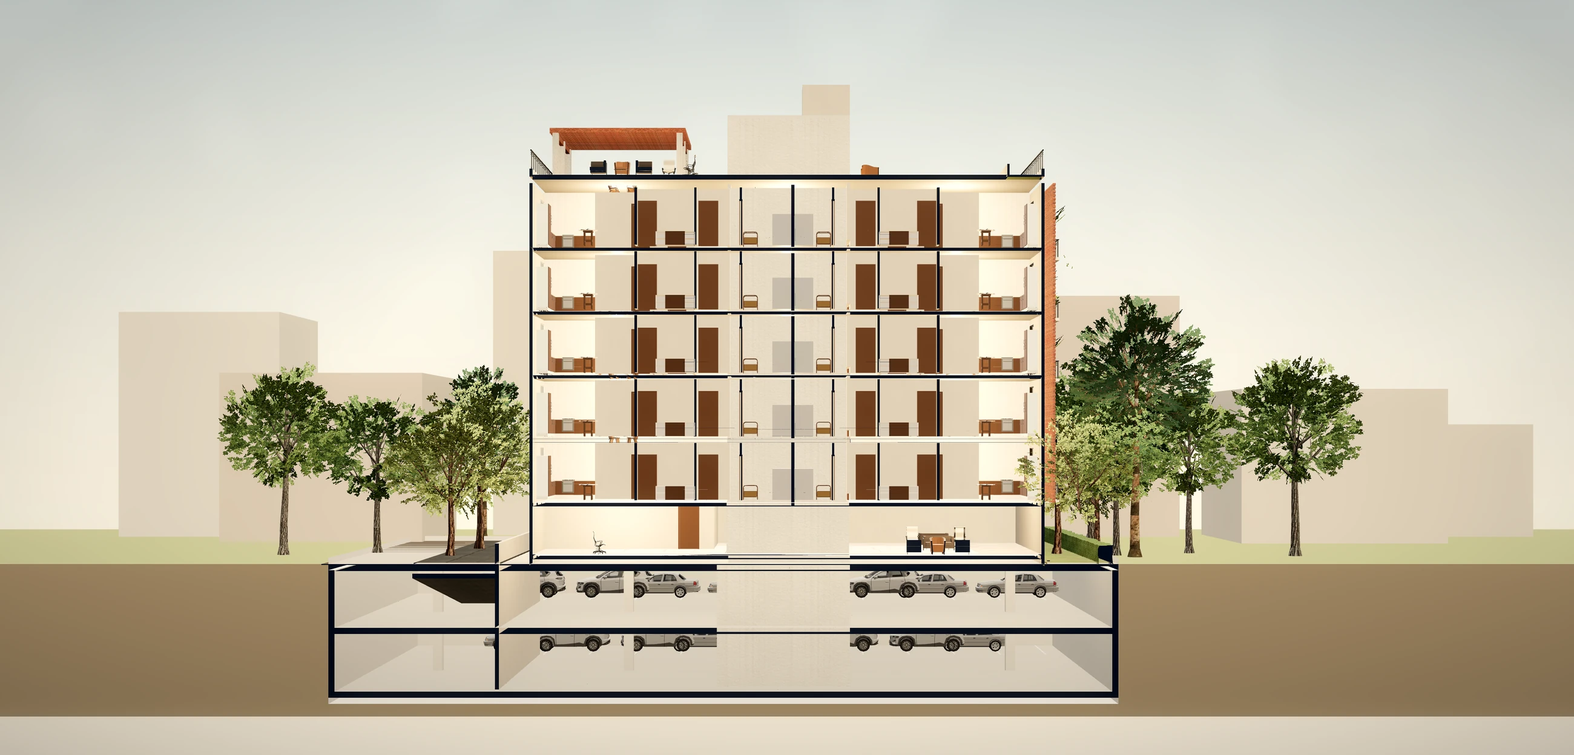
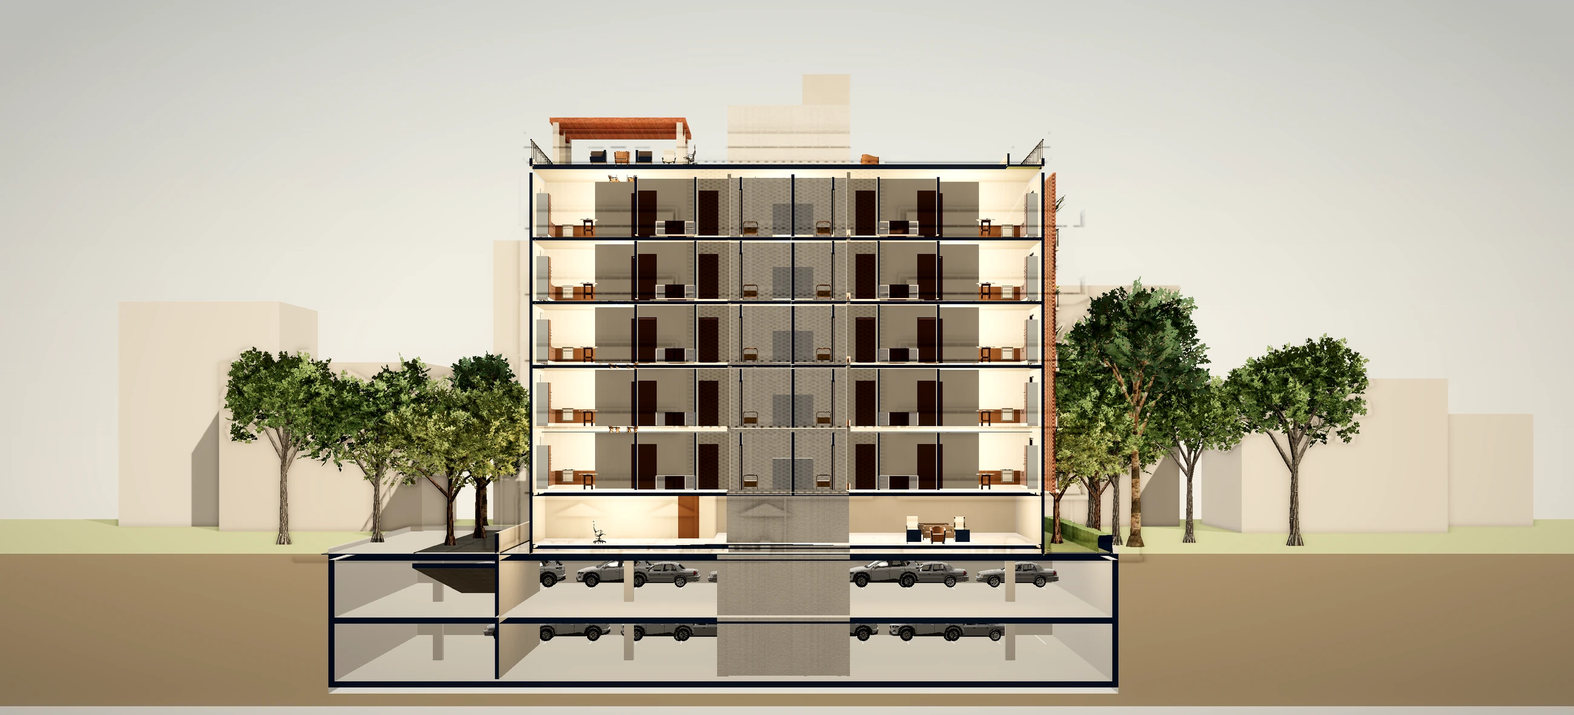
Brochure: corte del inicio renderizado con sombras reales, oclusion ambiental y cielo; cabida con arboles reales

diff --git a/index.html b/index.html
@@ -15,7 +15,7 @@
   <link rel="preconnect" href="https://fonts.gstatic.com" crossorigin />
   <link href="https://fonts.googleapis.com/css2?family=Montserrat:wght@300;400;500;600&family=Manrope:wght@400;500;600;700&display=swap" rel="stylesheet" />
   <link rel="stylesheet" href="https://unpkg.com/leaflet@1.9.4/dist/leaflet.css" integrity="sha256-p4NxAoJBhIIN+hmNHrzRCf9tD/miZyoHS5obTRR9BMY=" crossorigin="" />
-  <link rel="stylesheet" href="./assets/brochure/arboleda.css?v=v11" />
+  <link rel="stylesheet" href="./assets/brochure/arboleda.css?v=v12" />
   <script type="importmap">{ "imports": { "three": "https://unpkg.com/three@0.160.0/build/three.module.js", "three/addons/": "https://unpkg.com/three@0.160.0/examples/jsm/" } }</script>  <script type="importmap">{ "imports": { "three": "https://unpkg.com/three@0.160.0/build/three.module.js", "three/addons/": "https://unpkg.com/three@0.160.0/examples/jsm/" } }</script></head>
 <body class="is-loading">
     <div class="progress" aria-hidden="true"><i></i></div>
@@ -99,7 +99,7 @@
           <li><b>04</b><span>Sótanos</span><p>2 niveles bajo todo el lote: 46 parqueaderos.</p></li>
         </ol>
         <div class="cabida-vis">
-          <figure class="cabida-axo"><svg class="ax-svg" viewBox="-474 -507 806 672" role="img" aria-label="Axonometría de la cabida: lote esquinero con antejardines y el volumen de 6 pisos"><g class="ax-bs"><path class="ax-bw" d="M291.7 -90.7L5.6 74.5L5.6 3.2L291.7 -162.0Z"/><path class="ax-bn" d="M5.6 74.5L-384.2 -150.5L-384.2 -221.8L5.6 3.2Z"/><path class="ax-bl" d="M291.7 -126.3L5.6 38.9L-384.2 -186.2"/><path class="ax-bl" d="M291.7 -90.7L5.6 74.5L-384.2 -150.5"/><path class="ax-car" d="M-10.3 20.5L-28.3 10.1L-28.3 -2.5L-10.3 7.8Z"/><path class="ax-car" d="M-52.8 -4.1L-70.8 -14.4L-70.8 -27.1L-52.8 -16.7Z"/><path class="ax-car" d="M-95.3 -28.6L-113.3 -38.9L-113.3 -51.6L-95.3 -41.2Z"/><path class="ax-car" d="M-137.8 -53.1L-155.8 -63.5L-155.8 -76.1L-137.8 -65.8Z"/><path class="ax-car" d="M-180.3 -77.7L-198.3 -88.0L-198.3 -100.7L-180.3 -90.3Z"/><path class="ax-car" d="M-222.8 -102.2L-240.8 -112.6L-240.8 -125.2L-222.8 -114.9Z"/><path class="ax-car" d="M-265.3 -126.7L-283.3 -137.1L-283.3 -149.7L-265.3 -139.4Z"/><path class="ax-car" d="M-307.8 -151.3L-325.8 -161.6L-325.8 -174.3L-307.8 -163.9Z"/><path class="ax-car" d="M-350.3 -175.8L-368.3 -186.2L-368.3 -198.8L-350.3 -188.5Z"/><path class="ax-car" d="M-10.3 56.1L-28.3 45.8L-28.3 33.1L-10.3 43.5Z"/><path class="ax-car" d="M-52.8 31.6L-70.8 21.2L-70.8 8.6L-52.8 18.9Z"/><path class="ax-car" d="M-95.3 7.1L-113.3 -3.3L-113.3 -15.9L-95.3 -5.6Z"/><path class="ax-car" d="M-137.8 -17.5L-155.8 -27.8L-155.8 -40.5L-137.8 -30.1Z"/><path class="ax-car" d="M-180.3 -42.0L-198.3 -52.4L-198.3 -65.0L-180.3 -54.7Z"/><path class="ax-car" d="M-222.8 -66.6L-240.8 -76.9L-240.8 -89.6L-222.8 -79.2Z"/><path class="ax-car" d="M-265.3 -91.1L-283.3 -101.4L-283.3 -114.1L-265.3 -103.7Z"/><path class="ax-car" d="M-307.8 -115.6L-325.8 -126.0L-325.8 -138.6L-307.8 -128.3Z"/><path class="ax-car" d="M-350.3 -140.2L-368.3 -150.5L-368.3 -163.2L-350.3 -152.8Z"/></g><g class="ax-lot"><path class="ax-ground" d="M0.0 -0.0L290.2 -161.1L105.5 -269.5L101.5 -267.2L-98.0 -384.2L-384.2 -221.8Z"/></g><g class="ax-ant"><path class="ax-green" d="M5.6 3.2L-384.2 -221.8L-349.3 -241.9L0.0 -40.2L251.3 -185.3L291.7 -162.0Z"/></g><g class="ax-trees"><path class="ax-trunk" d="M12.3 -300.3V-343.2"/><ellipse class="ax-crown" cx="12.3" cy="-353.2" rx="27.6" ry="25.3"/><path class="ax-trunk" d="M-239.8 -282.2V-325.1"/><ellipse class="ax-crown" cx="-239.8" cy="-335.1" rx="27.6" ry="25.3"/><path class="ax-trunk" d="M77.0 -263.0V-305.9"/><ellipse class="ax-crown" cx="77.0" cy="-315.9" rx="27.6" ry="25.3"/><path class="ax-trunk" d="M-299.5 -247.7V-290.6"/><ellipse class="ax-crown" cx="-299.5" cy="-300.6" rx="27.6" ry="25.3"/><path class="ax-trunk" d="M-23.9 -245.0V-287.9"/><ellipse class="ax-crown" cx="-23.9" cy="-297.9" rx="27.6" ry="25.3"/><path class="ax-trunk" d="M146.7 -222.7V-265.6"/><ellipse class="ax-crown" cx="146.7" cy="-275.6" rx="27.6" ry="25.3"/><path class="ax-trunk" d="M206.5 -188.2V-231.1"/><ellipse class="ax-crown" cx="206.5" cy="-241.1" rx="27.6" ry="25.3"/><path class="ax-trunk" d="M110.5 -167.3V-210.2"/><ellipse class="ax-crown" cx="110.5" cy="-220.2" rx="27.6" ry="25.3"/></g><g class="ax-f"><path class="ax-w" d="M139.4 -120.8L0.0 -40.2L0.0 -75.9L139.4 -156.4Z"/><path class="ax-s" d="M0.0 -40.2L-247.4 -183.1L-247.4 -218.7L0.0 -75.9Z"/><path class="ax-glass" d="M-8.0 -48.9L-61.7 -79.9L-61.7 -106.4L-8.0 -75.3Z"/><path class="ax-glass" d="M-69.7 -84.5L-121.5 -114.4L-121.5 -140.9L-69.7 -111.0Z"/><path class="ax-glass" d="M-131.5 -120.2L-183.2 -150.1L-183.2 -176.5L-131.5 -146.6Z"/><path class="ax-glass" d="M-192.2 -155.2L-239.0 -182.3L-239.0 -208.7L-192.2 -181.7Z"/><path class="ax-glass" d="M63.7 -81.1L8.0 -48.9L8.0 -75.3L63.7 -107.5Z"/><path class="ax-glass" d="M131.5 -120.2L73.7 -86.8L73.7 -113.3L131.5 -146.6Z"/><path class="ax-brick" d="M-61.7 -75.9L-69.7 -80.5L-69.7 -116.2L-61.7 -111.5Z"/><path class="ax-brick" d="M-183.2 -146.0L-192.2 -151.2L-192.2 -186.9L-183.2 -181.7Z"/><path class="ax-slab" d="M139.4 -156.4L0.0 -75.9L-247.4 -218.7L-244.9 -220.2L0.0 -78.8L136.9 -157.8Z"/></g><g class="ax-f"><path class="ax-w" d="M139.4 -156.4L0.0 -75.9L0.0 -111.5L139.4 -192.1Z"/><path class="ax-s" d="M0.0 -75.9L-247.4 -218.7L-247.4 -254.4L0.0 -111.5Z"/><path class="ax-glass" d="M-8.0 -91.4L-61.7 -122.5L-61.7 -143.2L-8.0 -112.1Z"/><path class="ax-glass" d="M-69.7 -127.1L-121.5 -157.0L-121.5 -177.7L-69.7 -147.8Z"/><path class="ax-glass" d="M-131.5 -162.7L-183.2 -192.6L-183.2 -213.3L-131.5 -183.4Z"/><path class="ax-glass" d="M-192.2 -197.8L-239.0 -224.8L-239.0 -245.5L-192.2 -218.5Z"/><path class="ax-glass" d="M63.7 -123.6L8.0 -91.4L8.0 -112.1L63.7 -144.3Z"/><path class="ax-glass" d="M131.5 -162.7L73.7 -129.4L73.7 -150.1L131.5 -183.4Z"/><path class="ax-brick" d="M-61.7 -111.5L-69.7 -116.2L-69.7 -151.8L-61.7 -147.2Z"/><path class="ax-brick" d="M-183.2 -181.7L-192.2 -186.9L-192.2 -222.5L-183.2 -217.3Z"/><path class="ax-slab" d="M139.4 -192.1L0.0 -111.5L-247.4 -254.4L-244.9 -255.8L0.0 -114.4L136.9 -193.5Z"/></g><g class="ax-f"><path class="ax-w" d="M139.4 -192.1L0.0 -111.5L0.0 -147.2L139.4 -227.7Z"/><path class="ax-s" d="M0.0 -111.5L-247.4 -254.4L-247.4 -290.0L0.0 -147.2Z"/><path class="ax-glass" d="M-8.0 -127.1L-61.7 -158.1L-61.7 -178.8L-8.0 -147.8Z"/><path class="ax-glass" d="M-69.7 -162.7L-121.5 -192.6L-121.5 -213.3L-69.7 -183.4Z"/><path class="ax-glass" d="M-131.5 -198.4L-183.2 -228.3L-183.2 -249.0L-131.5 -219.1Z"/><path class="ax-glass" d="M-192.2 -233.4L-239.0 -260.5L-239.0 -281.2L-192.2 -254.2Z"/><path class="ax-glass" d="M63.7 -159.3L8.0 -127.1L8.0 -147.8L63.7 -180.0Z"/><path class="ax-glass" d="M131.5 -198.4L73.7 -165.0L73.7 -185.7L131.5 -219.1Z"/><path class="ax-brick" d="M-61.7 -147.2L-69.7 -151.8L-69.7 -187.4L-61.7 -182.8Z"/><path class="ax-brick" d="M-183.2 -217.3L-192.2 -222.5L-192.2 -258.2L-183.2 -253.0Z"/><path class="ax-slab" d="M139.4 -227.7L0.0 -147.2L-247.4 -290.0L-244.9 -291.5L0.0 -150.1L136.9 -229.1Z"/></g><g class="ax-f"><path class="ax-w" d="M139.4 -227.7L0.0 -147.2L0.0 -182.8L139.4 -263.4Z"/><path class="ax-s" d="M0.0 -147.2L-247.4 -290.0L-247.4 -325.7L0.0 -182.8Z"/><path class="ax-glass" d="M-8.0 -162.7L-61.7 -193.8L-61.7 -214.5L-8.0 -183.4Z"/><path class="ax-glass" d="M-69.7 -198.4L-121.5 -228.3L-121.5 -249.0L-69.7 -219.1Z"/><path class="ax-glass" d="M-131.5 -234.0L-183.2 -263.9L-183.2 -284.6L-131.5 -254.7Z"/><path class="ax-glass" d="M-192.2 -269.1L-239.0 -296.1L-239.0 -316.8L-192.2 -289.8Z"/><path class="ax-glass" d="M63.7 -194.9L8.0 -162.7L8.0 -183.4L63.7 -215.6Z"/><path class="ax-glass" d="M131.5 -234.0L73.7 -200.7L73.7 -221.4L131.5 -254.7Z"/><path class="ax-brick" d="M-61.7 -182.8L-69.7 -187.4L-69.7 -223.1L-61.7 -218.5Z"/><path class="ax-brick" d="M-183.2 -253.0L-192.2 -258.2L-192.2 -293.8L-183.2 -288.6Z"/><path class="ax-slab" d="M139.4 -263.4L0.0 -182.8L-247.4 -325.7L-244.9 -327.1L0.0 -185.7L136.9 -264.8Z"/></g><g class="ax-f"><path class="ax-w" d="M139.4 -263.4L0.0 -182.8L0.0 -218.5L139.4 -299.0Z"/><path class="ax-s" d="M0.0 -182.8L-247.4 -325.7L-247.4 -361.3L0.0 -218.5Z"/><path class="ax-glass" d="M-8.0 -198.4L-61.7 -229.4L-61.7 -250.1L-8.0 -219.1Z"/><path class="ax-glass" d="M-69.7 -234.0L-121.5 -263.9L-121.5 -284.6L-69.7 -254.7Z"/><path class="ax-glass" d="M-131.5 -269.7L-183.2 -299.6L-183.2 -320.3L-131.5 -290.4Z"/><path class="ax-glass" d="M-192.2 -304.8L-239.0 -331.8L-239.0 -352.5L-192.2 -325.4Z"/><path class="ax-glass" d="M63.7 -230.6L8.0 -198.4L8.0 -219.1L63.7 -251.3Z"/><path class="ax-glass" d="M131.5 -269.7L73.7 -236.3L73.7 -257.0L131.5 -290.4Z"/><path class="ax-brick" d="M-61.7 -218.5L-69.7 -223.1L-69.7 -258.8L-61.7 -254.1Z"/><path class="ax-brick" d="M-183.2 -288.6L-192.2 -293.8L-192.2 -329.5L-183.2 -324.3Z"/><path class="ax-slab" d="M139.4 -299.0L0.0 -218.5L-247.4 -361.3L-244.9 -362.8L0.0 -221.4L136.9 -300.4Z"/></g><g class="ax-f"><path class="ax-w" d="M139.4 -299.0L0.0 -218.5L0.0 -254.2L139.4 -334.6Z"/><path class="ax-s" d="M0.0 -218.5L-247.4 -361.3L-247.4 -397.0L0.0 -254.2Z"/><path class="ax-glass" d="M-8.0 -234.0L-61.7 -265.1L-61.7 -285.8L-8.0 -254.7Z"/><path class="ax-glass" d="M-69.7 -269.7L-121.5 -299.6L-121.5 -320.3L-69.7 -290.4Z"/><path class="ax-glass" d="M-131.5 -305.3L-183.2 -335.2L-183.2 -355.9L-131.5 -326.0Z"/><path class="ax-glass" d="M-192.2 -340.4L-239.0 -367.4L-239.0 -388.1L-192.2 -361.1Z"/><path class="ax-glass" d="M63.7 -266.2L8.0 -234.0L8.0 -254.7L63.7 -286.9Z"/><path class="ax-glass" d="M131.5 -305.3L73.7 -272.0L73.7 -292.7L131.5 -326.0Z"/><path class="ax-brick" d="M-61.7 -254.1L-69.7 -258.8L-69.7 -294.4L-61.7 -289.8Z"/><path class="ax-brick" d="M-183.2 -324.3L-192.2 -329.5L-192.2 -365.1L-183.2 -359.9Z"/><path class="ax-slab" d="M139.4 -334.6L0.0 -254.2L-247.4 -397.0L-244.9 -398.4L0.0 -257.0L136.9 -336.1Z"/></g><g class="ax-roof"><path class="ax-top" d="M0.0 -254.2L-247.4 -397.0L-108.0 -477.5L139.4 -334.6Z"/><path class="ax-w" d="M1.1 -363.0L-49.5 -333.8L-49.5 -367.1L1.1 -396.3Z"/><path class="ax-s" d="M-49.5 -333.8L-107.8 -367.4L-107.8 -400.8L-49.5 -367.1Z"/><path class="ax-top" d="M-49.5 -367.1L-107.8 -400.8L-57.2 -430.0L1.1 -396.3Z"/><path class="ax-perg" d="M0.0 -293.3L-75.7 -337.0L-23.9 -366.9L51.8 -323.2Z"/></g><g class="ax-dim"><path d="M165.3 -135.7V-349.6M160.3 -135.7h10M160.3 -349.6h10"/><text x="175.3" y="-242.7" text-anchor="start">18,60 m</text><text x="175.3" y="-227.7" text-anchor="start" class="ax-sm">6 pisos</text><text class="ax-st" transform="translate(-213.2 -95.5) rotate(30)" text-anchor="middle">Calle 56</text><text class="ax-st" transform="translate(172.6 -65.6) rotate(-30)" text-anchor="middle">Carrera 18</text></g><text class="ax-bt" x="5.6" y="100.5" text-anchor="middle">2 sótanos · 46 parqueaderos</text><text class="ax-bt ax-bt2" x="5.6" y="116.5" text-anchor="middle">23 por nivel, bajo todo el lote</text></svg><figcaption>Axonometría · 6 pisos sobre el lote y 2 sótanos con 46 parqueaderos</figcaption></figure>
+          <figure class="cabida-axo"><svg class="ax-svg" viewBox="-474 -507 806 672" role="img" aria-label="Axonometría de la cabida: lote esquinero con antejardines y el volumen de 6 pisos"><g class="ax-bs"><path class="ax-bw" d="M291.7 -90.7L5.6 74.5L5.6 3.2L291.7 -162.0Z"/><path class="ax-bn" d="M5.6 74.5L-384.2 -150.5L-384.2 -221.8L5.6 3.2Z"/><path class="ax-bl" d="M291.7 -126.3L5.6 38.9L-384.2 -186.2"/><path class="ax-bl" d="M291.7 -90.7L5.6 74.5L-384.2 -150.5"/><path class="ax-car" d="M-10.3 20.5L-28.3 10.1L-28.3 -2.5L-10.3 7.8Z"/><path class="ax-car" d="M-52.8 -4.1L-70.8 -14.4L-70.8 -27.1L-52.8 -16.7Z"/><path class="ax-car" d="M-95.3 -28.6L-113.3 -38.9L-113.3 -51.6L-95.3 -41.2Z"/><path class="ax-car" d="M-137.8 -53.1L-155.8 -63.5L-155.8 -76.1L-137.8 -65.8Z"/><path class="ax-car" d="M-180.3 -77.7L-198.3 -88.0L-198.3 -100.7L-180.3 -90.3Z"/><path class="ax-car" d="M-222.8 -102.2L-240.8 -112.6L-240.8 -125.2L-222.8 -114.9Z"/><path class="ax-car" d="M-265.3 -126.7L-283.3 -137.1L-283.3 -149.7L-265.3 -139.4Z"/><path class="ax-car" d="M-307.8 -151.3L-325.8 -161.6L-325.8 -174.3L-307.8 -163.9Z"/><path class="ax-car" d="M-350.3 -175.8L-368.3 -186.2L-368.3 -198.8L-350.3 -188.5Z"/><path class="ax-car" d="M-10.3 56.1L-28.3 45.8L-28.3 33.1L-10.3 43.5Z"/><path class="ax-car" d="M-52.8 31.6L-70.8 21.2L-70.8 8.6L-52.8 18.9Z"/><path class="ax-car" d="M-95.3 7.1L-113.3 -3.3L-113.3 -15.9L-95.3 -5.6Z"/><path class="ax-car" d="M-137.8 -17.5L-155.8 -27.8L-155.8 -40.5L-137.8 -30.1Z"/><path class="ax-car" d="M-180.3 -42.0L-198.3 -52.4L-198.3 -65.0L-180.3 -54.7Z"/><path class="ax-car" d="M-222.8 -66.6L-240.8 -76.9L-240.8 -89.6L-222.8 -79.2Z"/><path class="ax-car" d="M-265.3 -91.1L-283.3 -101.4L-283.3 -114.1L-265.3 -103.7Z"/><path class="ax-car" d="M-307.8 -115.6L-325.8 -126.0L-325.8 -138.6L-307.8 -128.3Z"/><path class="ax-car" d="M-350.3 -140.2L-368.3 -150.5L-368.3 -163.2L-350.3 -152.8Z"/></g><g class="ax-lot"><path class="ax-ground" d="M0.0 -0.0L290.2 -161.1L105.5 -269.5L101.5 -267.2L-98.0 -384.2L-384.2 -221.8Z"/></g><g class="ax-ant"><path class="ax-green" d="M5.6 3.2L-384.2 -221.8L-349.3 -241.9L0.0 -40.2L251.3 -185.3L291.7 -162.0Z"/></g><g class="ax-trees"><image class="ax-tree" href="./assets/brochure/arbol-corte.png" x="-35.5" y="-438.4" width="85.6" height="135.2" preserveAspectRatio="xMidYMax meet"/><image class="ax-tree" href="./assets/brochure/arbol-corte.png" x="-265.6" y="-438.2" width="91.5" height="144.5" preserveAspectRatio="xMidYMax meet"/><image class="ax-tree" href="./assets/brochure/arbol-corte.png" x="20.8" y="-402.1" width="82.6" height="130.5" preserveAspectRatio="xMidYMax meet"/><image class="ax-tree" href="./assets/brochure/arbol-corte.png" x="-310.4" y="-393.6" width="81.5" height="128.7" preserveAspectRatio="xMidYMax meet"/><image class="ax-tree" href="./assets/brochure/arbol-corte.png" x="-65.6" y="-376.5" width="83.3" height="131.6" preserveAspectRatio="xMidYMax meet"/><image class="ax-tree" href="./assets/brochure/arbol-corte.png" x="77.1" y="-365.7" width="79.6" height="125.7" preserveAspectRatio="xMidYMax meet"/><image class="ax-tree" href="./assets/brochure/arbol-corte.png" x="-365.2" y="-380.7" width="91.5" height="144.5" preserveAspectRatio="xMidYMax meet"/><image class="ax-tree" href="./assets/brochure/arbol-corte.png" x="133.3" y="-329.3" width="76.6" height="121.0" preserveAspectRatio="xMidYMax meet"/><image class="ax-tree" href="./assets/brochure/arbol-corte.png" x="178.1" y="-316.4" width="86.6" height="136.8" preserveAspectRatio="xMidYMax meet"/><image class="ax-tree" href="./assets/brochure/arbol-corte.png" x="74.4" y="-281.5" width="72.3" height="114.2" preserveAspectRatio="xMidYMax meet"/></g><g class="ax-f"><path class="ax-w" d="M139.4 -120.8L0.0 -40.2L0.0 -75.9L139.4 -156.4Z"/><path class="ax-s" d="M0.0 -40.2L-247.4 -183.1L-247.4 -218.7L0.0 -75.9Z"/><path class="ax-glass" d="M-8.0 -48.9L-61.7 -79.9L-61.7 -106.4L-8.0 -75.3Z"/><path class="ax-glass" d="M-69.7 -84.5L-121.5 -114.4L-121.5 -140.9L-69.7 -111.0Z"/><path class="ax-glass" d="M-131.5 -120.2L-183.2 -150.1L-183.2 -176.5L-131.5 -146.6Z"/><path class="ax-glass" d="M-192.2 -155.2L-239.0 -182.3L-239.0 -208.7L-192.2 -181.7Z"/><path class="ax-glass" d="M63.7 -81.1L8.0 -48.9L8.0 -75.3L63.7 -107.5Z"/><path class="ax-glass" d="M131.5 -120.2L73.7 -86.8L73.7 -113.3L131.5 -146.6Z"/><path class="ax-brick" d="M-61.7 -75.9L-69.7 -80.5L-69.7 -116.2L-61.7 -111.5Z"/><path class="ax-brick" d="M-183.2 -146.0L-192.2 -151.2L-192.2 -186.9L-183.2 -181.7Z"/><path class="ax-slab" d="M139.4 -156.4L0.0 -75.9L-247.4 -218.7L-244.9 -220.2L0.0 -78.8L136.9 -157.8Z"/></g><g class="ax-f"><path class="ax-w" d="M139.4 -156.4L0.0 -75.9L0.0 -111.5L139.4 -192.1Z"/><path class="ax-s" d="M0.0 -75.9L-247.4 -218.7L-247.4 -254.4L0.0 -111.5Z"/><path class="ax-glass" d="M-8.0 -91.4L-61.7 -122.5L-61.7 -143.2L-8.0 -112.1Z"/><path class="ax-glass" d="M-69.7 -127.1L-121.5 -157.0L-121.5 -177.7L-69.7 -147.8Z"/><path class="ax-glass" d="M-131.5 -162.7L-183.2 -192.6L-183.2 -213.3L-131.5 -183.4Z"/><path class="ax-glass" d="M-192.2 -197.8L-239.0 -224.8L-239.0 -245.5L-192.2 -218.5Z"/><path class="ax-glass" d="M63.7 -123.6L8.0 -91.4L8.0 -112.1L63.7 -144.3Z"/><path class="ax-glass" d="M131.5 -162.7L73.7 -129.4L73.7 -150.1L131.5 -183.4Z"/><path class="ax-brick" d="M-61.7 -111.5L-69.7 -116.2L-69.7 -151.8L-61.7 -147.2Z"/><path class="ax-brick" d="M-183.2 -181.7L-192.2 -186.9L-192.2 -222.5L-183.2 -217.3Z"/><path class="ax-slab" d="M139.4 -192.1L0.0 -111.5L-247.4 -254.4L-244.9 -255.8L0.0 -114.4L136.9 -193.5Z"/></g><g class="ax-f"><path class="ax-w" d="M139.4 -192.1L0.0 -111.5L0.0 -147.2L139.4 -227.7Z"/><path class="ax-s" d="M0.0 -111.5L-247.4 -254.4L-247.4 -290.0L0.0 -147.2Z"/><path class="ax-glass" d="M-8.0 -127.1L-61.7 -158.1L-61.7 -178.8L-8.0 -147.8Z"/><path class="ax-glass" d="M-69.7 -162.7L-121.5 -192.6L-121.5 -213.3L-69.7 -183.4Z"/><path class="ax-glass" d="M-131.5 -198.4L-183.2 -228.3L-183.2 -249.0L-131.5 -219.1Z"/><path class="ax-glass" d="M-192.2 -233.4L-239.0 -260.5L-239.0 -281.2L-192.2 -254.2Z"/><path class="ax-glass" d="M63.7 -159.3L8.0 -127.1L8.0 -147.8L63.7 -180.0Z"/><path class="ax-glass" d="M131.5 -198.4L73.7 -165.0L73.7 -185.7L131.5 -219.1Z"/><path class="ax-brick" d="M-61.7 -147.2L-69.7 -151.8L-69.7 -187.4L-61.7 -182.8Z"/><path class="ax-brick" d="M-183.2 -217.3L-192.2 -222.5L-192.2 -258.2L-183.2 -253.0Z"/><path class="ax-slab" d="M139.4 -227.7L0.0 -147.2L-247.4 -290.0L-244.9 -291.5L0.0 -150.1L136.9 -229.1Z"/></g><g class="ax-f"><path class="ax-w" d="M139.4 -227.7L0.0 -147.2L0.0 -182.8L139.4 -263.4Z"/><path class="ax-s" d="M0.0 -147.2L-247.4 -290.0L-247.4 -325.7L0.0 -182.8Z"/><path class="ax-glass" d="M-8.0 -162.7L-61.7 -193.8L-61.7 -214.5L-8.0 -183.4Z"/><path class="ax-glass" d="M-69.7 -198.4L-121.5 -228.3L-121.5 -249.0L-69.7 -219.1Z"/><path class="ax-glass" d="M-131.5 -234.0L-183.2 -263.9L-183.2 -284.6L-131.5 -254.7Z"/><path class="ax-glass" d="M-192.2 -269.1L-239.0 -296.1L-239.0 -316.8L-192.2 -289.8Z"/><path class="ax-glass" d="M63.7 -194.9L8.0 -162.7L8.0 -183.4L63.7 -215.6Z"/><path class="ax-glass" d="M131.5 -234.0L73.7 -200.7L73.7 -221.4L131.5 -254.7Z"/><path class="ax-brick" d="M-61.7 -182.8L-69.7 -187.4L-69.7 -223.1L-61.7 -218.5Z"/><path class="ax-brick" d="M-183.2 -253.0L-192.2 -258.2L-192.2 -293.8L-183.2 -288.6Z"/><path class="ax-slab" d="M139.4 -263.4L0.0 -182.8L-247.4 -325.7L-244.9 -327.1L0.0 -185.7L136.9 -264.8Z"/></g><g class="ax-f"><path class="ax-w" d="M139.4 -263.4L0.0 -182.8L0.0 -218.5L139.4 -299.0Z"/><path class="ax-s" d="M0.0 -182.8L-247.4 -325.7L-247.4 -361.3L0.0 -218.5Z"/><path class="ax-glass" d="M-8.0 -198.4L-61.7 -229.4L-61.7 -250.1L-8.0 -219.1Z"/><path class="ax-glass" d="M-69.7 -234.0L-121.5 -263.9L-121.5 -284.6L-69.7 -254.7Z"/><path class="ax-glass" d="M-131.5 -269.7L-183.2 -299.6L-183.2 -320.3L-131.5 -290.4Z"/><path class="ax-glass" d="M-192.2 -304.8L-239.0 -331.8L-239.0 -352.5L-192.2 -325.4Z"/><path class="ax-glass" d="M63.7 -230.6L8.0 -198.4L8.0 -219.1L63.7 -251.3Z"/><path class="ax-glass" d="M131.5 -269.7L73.7 -236.3L73.7 -257.0L131.5 -290.4Z"/><path class="ax-brick" d="M-61.7 -218.5L-69.7 -223.1L-69.7 -258.8L-61.7 -254.1Z"/><path class="ax-brick" d="M-183.2 -288.6L-192.2 -293.8L-192.2 -329.5L-183.2 -324.3Z"/><path class="ax-slab" d="M139.4 -299.0L0.0 -218.5L-247.4 -361.3L-244.9 -362.8L0.0 -221.4L136.9 -300.4Z"/></g><g class="ax-f"><path class="ax-w" d="M139.4 -299.0L0.0 -218.5L0.0 -254.2L139.4 -334.6Z"/><path class="ax-s" d="M0.0 -218.5L-247.4 -361.3L-247.4 -397.0L0.0 -254.2Z"/><path class="ax-glass" d="M-8.0 -234.0L-61.7 -265.1L-61.7 -285.8L-8.0 -254.7Z"/><path class="ax-glass" d="M-69.7 -269.7L-121.5 -299.6L-121.5 -320.3L-69.7 -290.4Z"/><path class="ax-glass" d="M-131.5 -305.3L-183.2 -335.2L-183.2 -355.9L-131.5 -326.0Z"/><path class="ax-glass" d="M-192.2 -340.4L-239.0 -367.4L-239.0 -388.1L-192.2 -361.1Z"/><path class="ax-glass" d="M63.7 -266.2L8.0 -234.0L8.0 -254.7L63.7 -286.9Z"/><path class="ax-glass" d="M131.5 -305.3L73.7 -272.0L73.7 -292.7L131.5 -326.0Z"/><path class="ax-brick" d="M-61.7 -254.1L-69.7 -258.8L-69.7 -294.4L-61.7 -289.8Z"/><path class="ax-brick" d="M-183.2 -324.3L-192.2 -329.5L-192.2 -365.1L-183.2 -359.9Z"/><path class="ax-slab" d="M139.4 -334.6L0.0 -254.2L-247.4 -397.0L-244.9 -398.4L0.0 -257.0L136.9 -336.1Z"/></g><g class="ax-roof"><path class="ax-top" d="M0.0 -254.2L-247.4 -397.0L-108.0 -477.5L139.4 -334.6Z"/><path class="ax-w" d="M1.1 -363.0L-49.5 -333.8L-49.5 -367.1L1.1 -396.3Z"/><path class="ax-s" d="M-49.5 -333.8L-107.8 -367.4L-107.8 -400.8L-49.5 -367.1Z"/><path class="ax-top" d="M-49.5 -367.1L-107.8 -400.8L-57.2 -430.0L1.1 -396.3Z"/><path class="ax-perg" d="M0.0 -293.3L-75.7 -337.0L-23.9 -366.9L51.8 -323.2Z"/></g><g class="ax-dim"><path d="M165.3 -135.7V-349.6M160.3 -135.7h10M160.3 -349.6h10"/><text x="175.3" y="-242.7" text-anchor="start">18,60 m</text><text x="175.3" y="-227.7" text-anchor="start" class="ax-sm">6 pisos</text><text class="ax-st" transform="translate(-213.2 -95.5) rotate(30)" text-anchor="middle">Calle 56</text><text class="ax-st" transform="translate(172.6 -65.6) rotate(-30)" text-anchor="middle">Carrera 18</text></g><text class="ax-bt" x="5.6" y="100.5" text-anchor="middle">2 sótanos · 46 parqueaderos</text><text class="ax-bt ax-bt2" x="5.6" y="116.5" text-anchor="middle">23 por nivel, bajo todo el lote</text></svg><figcaption>Axonometría · 6 pisos sobre el lote y 2 sótanos con 46 parqueaderos</figcaption></figure>
           <figure class="cabida-fig"><svg class="cb-svg" viewBox="0 0 727 561" role="img" aria-labelledby="cb-t cb-d"><title id="cb-t">Implantación del edificio en el lote</title><desc id="cb-d">Lote de 1.104,84 metros cuadrados con la huella del edificio de 24,84 por 14,00 metros, retirada 3,50 metros de la Calle 56 y de la Carrera 18.</desc><defs><pattern id="cb-hatch" width="6" height="6" patternUnits="userSpaceOnUse" patternTransform="rotate(45)"><line x1="0" y1="0" x2="0" y2="6" class="cb-h"/></pattern><clipPath id="cb-clip"><path d="M78.4 70.0L70.0 498.6L350.5 501.0L350.5 494.9L653.3 497.3L657.1 70.0Z"/></clipPath></defs><g transform="rotate(180 363.6 280.5)"><path class="cb-lot" d="M78.4 70.0L70.0 498.6L350.5 501.0L350.5 494.9L653.3 497.3L657.1 70.0Z" pathLength="1"/><g clip-path="url(#cb-clip)"><rect class="cb-ant" x="70.0" y="70.0" width="587.1" height="52.5" fill="url(#cb-hatch)"/><rect class="cb-ant" x="70.0" y="70.0" width="60.9" height="431.0" fill="url(#cb-hatch)"/></g><rect class="cb-foot" x="130.9" y="122.5" width="372.6" height="210.0"/><rect class="cb-core" x="272.1" y="189.1" width="87.8" height="76.2"/><path class="cb-split" d="M313.0 122.5V189.1M315.4 265.3V332.5M130.9 240.0H272.1M359.8 240.0H503.5"/><text transform="rotate(180 201.4 185.5)" class="cb-u" x="201.4" y="185.5" text-anchor="middle">A</text><text transform="rotate(180 430.9 185.5)" class="cb-u" x="430.9" y="185.5" text-anchor="middle">A</text><text transform="rotate(180 201.4 290.5)" class="cb-u" x="201.4" y="290.5" text-anchor="middle">B</text><text transform="rotate(180 430.9 290.5)" class="cb-u" x="430.9" y="290.5" text-anchor="middle">B</text><text transform="rotate(180 317.2 231.2)" class="cb-s" x="317.2" y="231.2" text-anchor="middle">Punto fijo</text><text transform="rotate(180 317.2 420.8)" class="cb-s" x="317.2" y="420.8" text-anchor="middle">Jardín del patio</text><text transform="rotate(180 363.5 38)" class="cb-st" x="363.5" y="38" text-anchor="middle">Calle 56</text><text class="cb-st" x="30" y="285.5" text-anchor="middle" transform="rotate(180 30 285.5) rotate(-90 30 285.5)">Carrera 18</text><g class="cb-dim"><path d="M130.9 348.5H503.5M130.9 343.5v10M503.5 343.5v10"/><text transform="rotate(180 317.2 364.5)" x="317.2" y="364.5" text-anchor="middle">24,84 m</text><path d="M519.5 122.5V332.5M514.5 122.5h10M514.5 332.5h10"/><text x="533.5" y="227.5" transform="rotate(180 533.5 227.5) rotate(-90 533.5 227.5)" text-anchor="middle">14,00 m</text><text transform="rotate(180 317.2 100.2)" x="317.2" y="100.2" text-anchor="middle">Antejardín 3,50 m</text></g><g class="cb-north" transform="translate(683 517) rotate(-9.4)"><circle r="17"/><path d="M0 -13L5 6L0 2L-5 6Z"/></g><text transform="rotate(180 683 551)" class="cb-s" x="683" y="551" text-anchor="middle">N</text></g></svg>
             <figcaption class="cb-leg"><span><i class="k-foot"></i>Huella del edificio</span><span><i class="k-ant"></i>Antejardín de 3,50 m</span><span><i class="k-lot"></i>Lindero del lote</span><span>A · tipo A 78,75 m² · B · tipo B 70 m²</span></figcaption>
           </figure>
@@ -484,6 +484,6 @@
   <script src="https://cdnjs.cloudflare.com/ajax/libs/gsap/3.12.5/ScrollTrigger.min.js"></script>
   <script src="https://unpkg.com/leaflet@1.9.4/dist/leaflet.js" integrity="sha256-20nQCchB9co0qIjJZRGuk2/Z9VM+kNiyxNV1lvTlZBo=" crossorigin=""></script>
   <script src="https://unpkg.com/lenis@1.1.13/dist/lenis.min.js"></script>
-  <script src="./assets/brochure/arboleda.js?v=v11"></script>  <a class="jmc-badge" href="#firma" aria-label="JMC Arquitectura"><img src="./assets/branding/jmc-logo.png" alt="" width="28" height="28" /><span>JMC Arquitectura</span></a>
+  <script src="./assets/brochure/arboleda.js?v=v12"></script>  <a class="jmc-badge" href="#firma" aria-label="JMC Arquitectura"><img src="./assets/branding/jmc-logo.png" alt="" width="28" height="28" /><span>JMC Arquitectura</span></a>
 </body>
 </html>

diff --git a/assets/brochure/arboleda.js b/assets/brochure/arboleda.js
@@ -538,7 +538,7 @@ const fmtP = (v) => '$' + Math.round(v).toLocaleString('es-CO');
   const fig = document.querySelector('.st-corte');
   if (!fig) return;
   const band = fig.querySelector('.stc-band'), calls = [...fig.querySelectorAll('.stc-d')];
-  const F = [[74.71, 91.61, "s"], [66.25, 74.71, "p1"], [57.79, 66.25, "apt"], [49.33, 57.79, "apt"], [40.88, 49.33, "apt"], [32.42, 40.88, "apt"], [23.96, 32.42, "apt"], [15.78, 23.96, "t"]];
+  const F = [[77.44, 95.3, "s"], [68.51, 77.44, "p1"], [59.57, 68.51, "apt"], [50.64, 59.57, "apt"], [41.71, 50.64, "apt"], [32.77, 41.71, "apt"], [23.84, 32.77, "apt"], [15.2, 23.84, "t"]];
   const set = (i) => {
     const [t, b, k] = F[i];
     band.style.top = t + '%'; band.style.height = (b - t) + '%';

diff --git a/assets/brochure/arboleda.css b/assets/brochure/arboleda.css
@@ -1408,3 +1408,5 @@ html { scrollbar-color: var(--ink) var(--bg); scrollbar-width: thin; }
 @media (max-width: 860px) { .cabida .cabida-vis { grid-template-columns: 1fr !important; } }
 
 .ax-bt2 { font-size: 9.5px !important; fill: var(--on-night-2) !important; }
+
+.ax-tree { opacity: .95; filter: saturate(.85); }

diff --git a/scripts/build-brochure-sections.py b/scripts/build-brochure-sections.py
@@ -246,12 +246,13 @@ x0, x1, z0, z1 = min(xs), max(xs), min(zs), max(zs)
 ax.append('<g class="ax-ant">' + poly_ax([(x0, z0, 0), (x1, z0, 0), (x1, oz, 0), (ox, oz, 0), (ox, z1, 0), (x0, z1, 0)], 'ax-green') + '</g>')
 TOP = NF * FH
 # árboles esquemáticos en el patio y en el costado oriental (atrás del edificio, no al frente)
-trees = [(ox + x_, z1 - 2.0) for x_ in (2.5, 8.5, 15.5, 22.0)] + [(x1 - 2.0, oz + z_) for z_ in (3.0, 9.0)] + [(ox + 5.5, oz + PD + 2.6), (ox + 19.0, oz + PD + 2.6)]
+trees = [(ox + x_, z1 - 2.0) for x_ in (1.0, 6.0, 11.5, 17.0, 22.5)] + [(x1 - 2.0, oz + z_) for z_ in (1.0, 6.0, 11.0)] + [(ox + 5.5, oz + PD + 2.6), (ox + 19.0, oz + PD + 2.6)]
 tr = ['<g class="ax-trees">']
 for tx_, tz_ in sorted(trees, key=lambda p: -(p[0] + p[1])):
     a_, c_ = ISO(tx_, tz_, 0), ISO(tx_, tz_, 4.6)
-    tr.append(f'<path class="ax-trunk" d="M{a_[0]:.1f} {a_[1]:.1f}V{c_[1]+10:.1f}"/><ellipse class="ax-crown" cx="{c_[0]:.1f}" cy="{c_[1]:.1f}" rx="{2.4*SA:.1f}" ry="{2.2*SA:.1f}"/>')
-    axp.append(ISO(tx_, tz_, 7))
+    th = 11.0 * SA * (0.9 + ((tx_ * 7.3 + tz_ * 3.1) % 1) * 0.25); tw = th * 240 / 379
+    tr.append(f'<image class="ax-tree" href="./assets/brochure/arbol-corte.png" x="{a_[0]-tw/2:.1f}" y="{a_[1]-th:.1f}" width="{tw:.1f}" height="{th:.1f}" preserveAspectRatio="xMidYMax meet"/>')
+    axp.append((a_[0], a_[1] - th))
 tr.append('</g>'); ax.append(''.join(tr))
 for i in range(NF):
     y0, y1 = i * FH, (i + 1) * FH
